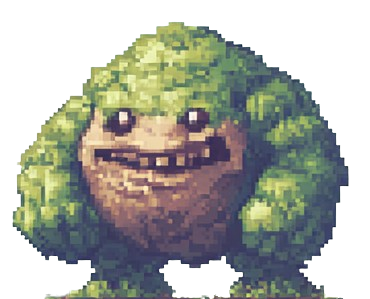
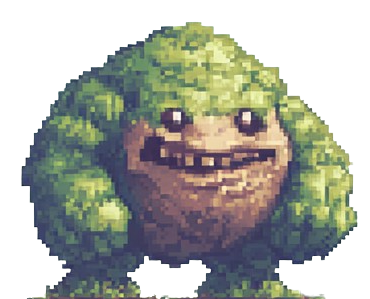
Some fixes

diff --git a/enemy.py b/enemy.py
@@ -4,11 +4,29 @@ from draggable import Draggable
 
 class Enemy(PhysicsObject, Draggable):
     def __init__(self, x, y, enemy_type):
+        # Initialize parent classes.
         PhysicsObject.__init__(self)
         Draggable.__init__(self)
         self.enemy_type = enemy_type
-        self.image = pygame.image.load(f"images/enemy{enemy_type}.png").convert_alpha()
-        self.image = pygame.transform.smoothscale(self.image, (120, 120))
+
+        # Determine the image path.
+        if enemy_type == "spaghetti_monster":
+            image_path = "images/spaghetti_monster.png"
+        else:
+            image_path = f"images/enemy{enemy_type}.png"
+
+        # Load and scale the image.
+        original_image = pygame.image.load(image_path).convert_alpha()
+        scaled_image = pygame.transform.smoothscale(original_image, (120, 120))
+
+        # Cache both right- and left-facing images.
+        self.image_right = scaled_image
+        self.image_left = pygame.transform.flip(scaled_image, True, False)
+
+        # Set the initial image and facing direction.
+        self.image = self.image_right
+        self.facing_direction = 1  # 1 means right, -1 means left
+
         self.rect = self.image.get_rect()
         self.rect.x = x
         self.rect.y = y
@@ -53,6 +71,18 @@ class Enemy(PhysicsObject, Draggable):
                 if not ground_ahead:
                     self.autonomous_direction *= -1
         self._handle_elevators(level.elevators, elevator_movements)
+
+        # Update facing direction based on the current horizontal velocity.
+        if self.x_velocity < 0:
+            self.facing_direction = -1
+        elif self.x_velocity > 0:
+            self.facing_direction = 1
+
+        # Set the current image based on the facing direction.
+        if self.facing_direction < 0:
+            self.image = self.image_left
+        else:
+            self.image = self.image_right
 
     def _handle_elevators(self, elevators, elevator_movements):
         elevator_collisions = []

diff --git a/inventory.py b/inventory.py
@@ -50,14 +50,20 @@ ICONS = [
         "image_path": "images/enemy2.png"
     },
     {
+        "type": "spaghetti_monster",
+        "color": (255, 200, 0),  # Choose an appropriate color to represent it
+        "rect": pygame.Rect(0, 552, 60, 60),  # Placed 10px below enemy2
+        "image_path": "images/spaghetti_monster.png"
+    },
+    {
         "type": "elevator",
         "color": (100, 100, 255),
-        "rect": pygame.Rect(0, 552, 112, 30),  # y from 522 to 552 (482+60+10)
+        "rect": pygame.Rect(0, 622, 112, 30),  # Shifted down to allow room for spaghetti monster
         "image_path": "images/stone-platform.png"
     },
     {
         "type": "trash",
-        "rect": pygame.Rect(0, 592, 40, 40),  # Positioned below elevator with a gap of 10px; size 40x40
+        "rect": pygame.Rect(0, 662, 40, 40),  # Shifted down accordingly
         "image_path": "images/trash.png"
     }
 ]
@@ -133,6 +139,10 @@ ITEM_META = {
     "elevator": {
         "name": "Elevator Platform",
         "description": "A moving platform that travels between two points.",
+    },
+    "spaghetti_monster": {
+        "name": "Spaghetti Monster",
+        "description": "A monstrous mess of noodles and sauce.",
     },
 }
 
@@ -479,6 +489,8 @@ class InventoryPanel:
                         level.add_enemy(mx, my, 1)
                     elif self.dragging_icon["type"] == "enemy2":
                         level.add_enemy(mx, my, 2)
+                    elif self.dragging_icon["type"] == "spaghetti_monster":
+                        level.add_enemy(mx, my, "spaghetti_monster")
                     elif self.dragging_icon["type"] == "elevator":
                         level.add_elevator(mx, my)
                     elif self.dragging_icon["type"] == "star":

diff --git a/player.py b/player.py
@@ -49,6 +49,9 @@ class Player(PhysicsObject):
         self.gun_image_left = pygame.transform.flip(self.gun_image, True, False)
         self.shoot_cooldown = 0
 
+        # NEW: Load the gun shooting sound. Default to "gun.wav"
+        self.gun_shoot_sound = pygame.mixer.Sound("sounds/gun.wav")
+
     def handle_input(self):
         keys = pygame.key.get_pressed()
         if not self.on_slide:
@@ -121,6 +124,8 @@ class Player(PhysicsObject):
                 direction = "left"
             bullet_y = self.rect.centery
             level.bullets.append(Bullet(bullet_x, bullet_y, direction))
+            # Play the gun shooting sound
+            self.gun_shoot_sound.play()
             self.shoot_cooldown = 20  # Cooldown frames between shots
         if self.shoot_cooldown > 0:
             self.shoot_cooldown -= 1
@@ -231,6 +236,12 @@ class Player(PhysicsObject):
         self.ouch_sound = pygame.mixer.Sound(sound_data["ouch_sound"])
         self.boing_sound = pygame.mixer.Sound(sound_data["boing_sound"])
         self.portal_sound = pygame.mixer.Sound(sound_data["portal_sound"])
+        
+        # NEW: Update gun shooting sound based on character type
+        if "player_small" in new_sprite_path:
+            self.gun_shoot_sound = pygame.mixer.Sound("sounds/small_player_shoot.wav")
+        else:
+            self.gun_shoot_sound = pygame.mixer.Sound("sounds/gun.wav")
         
         # Preserve position with original size
         old_center = self.rect.center
